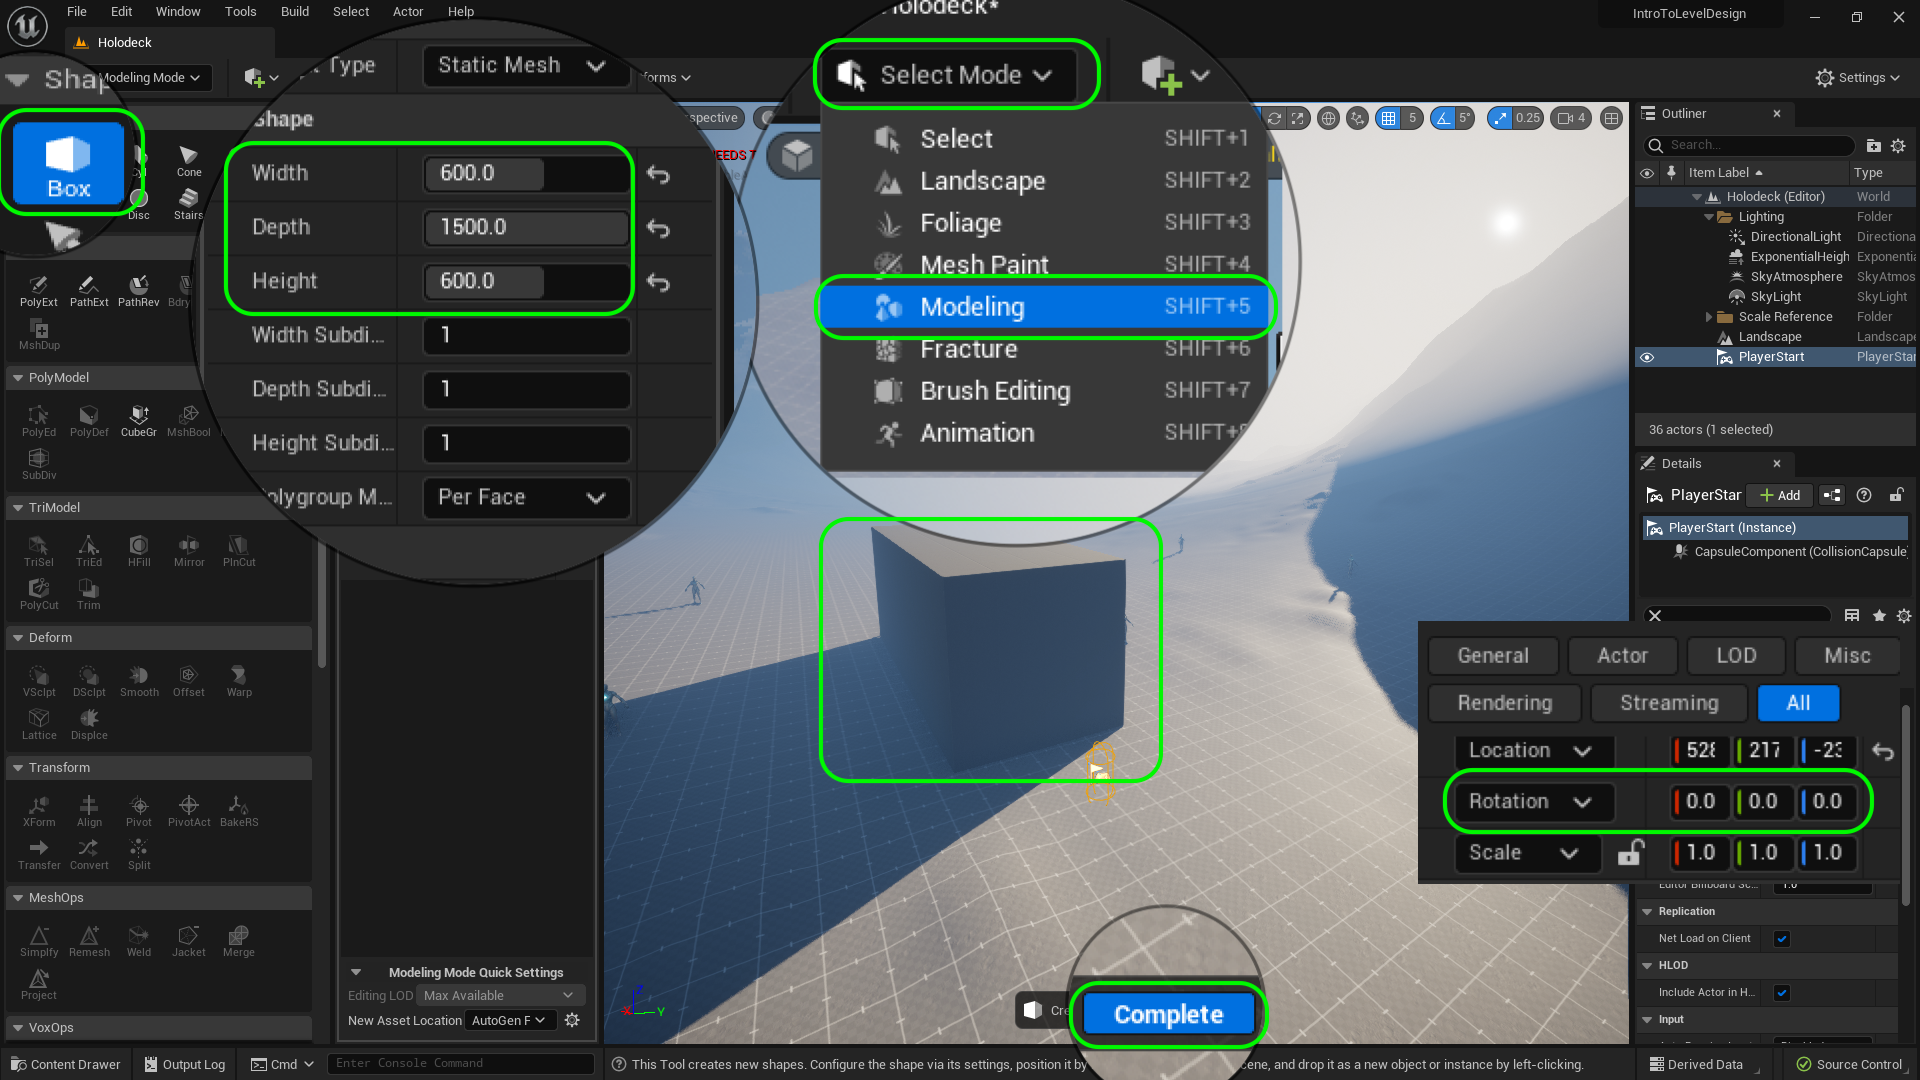
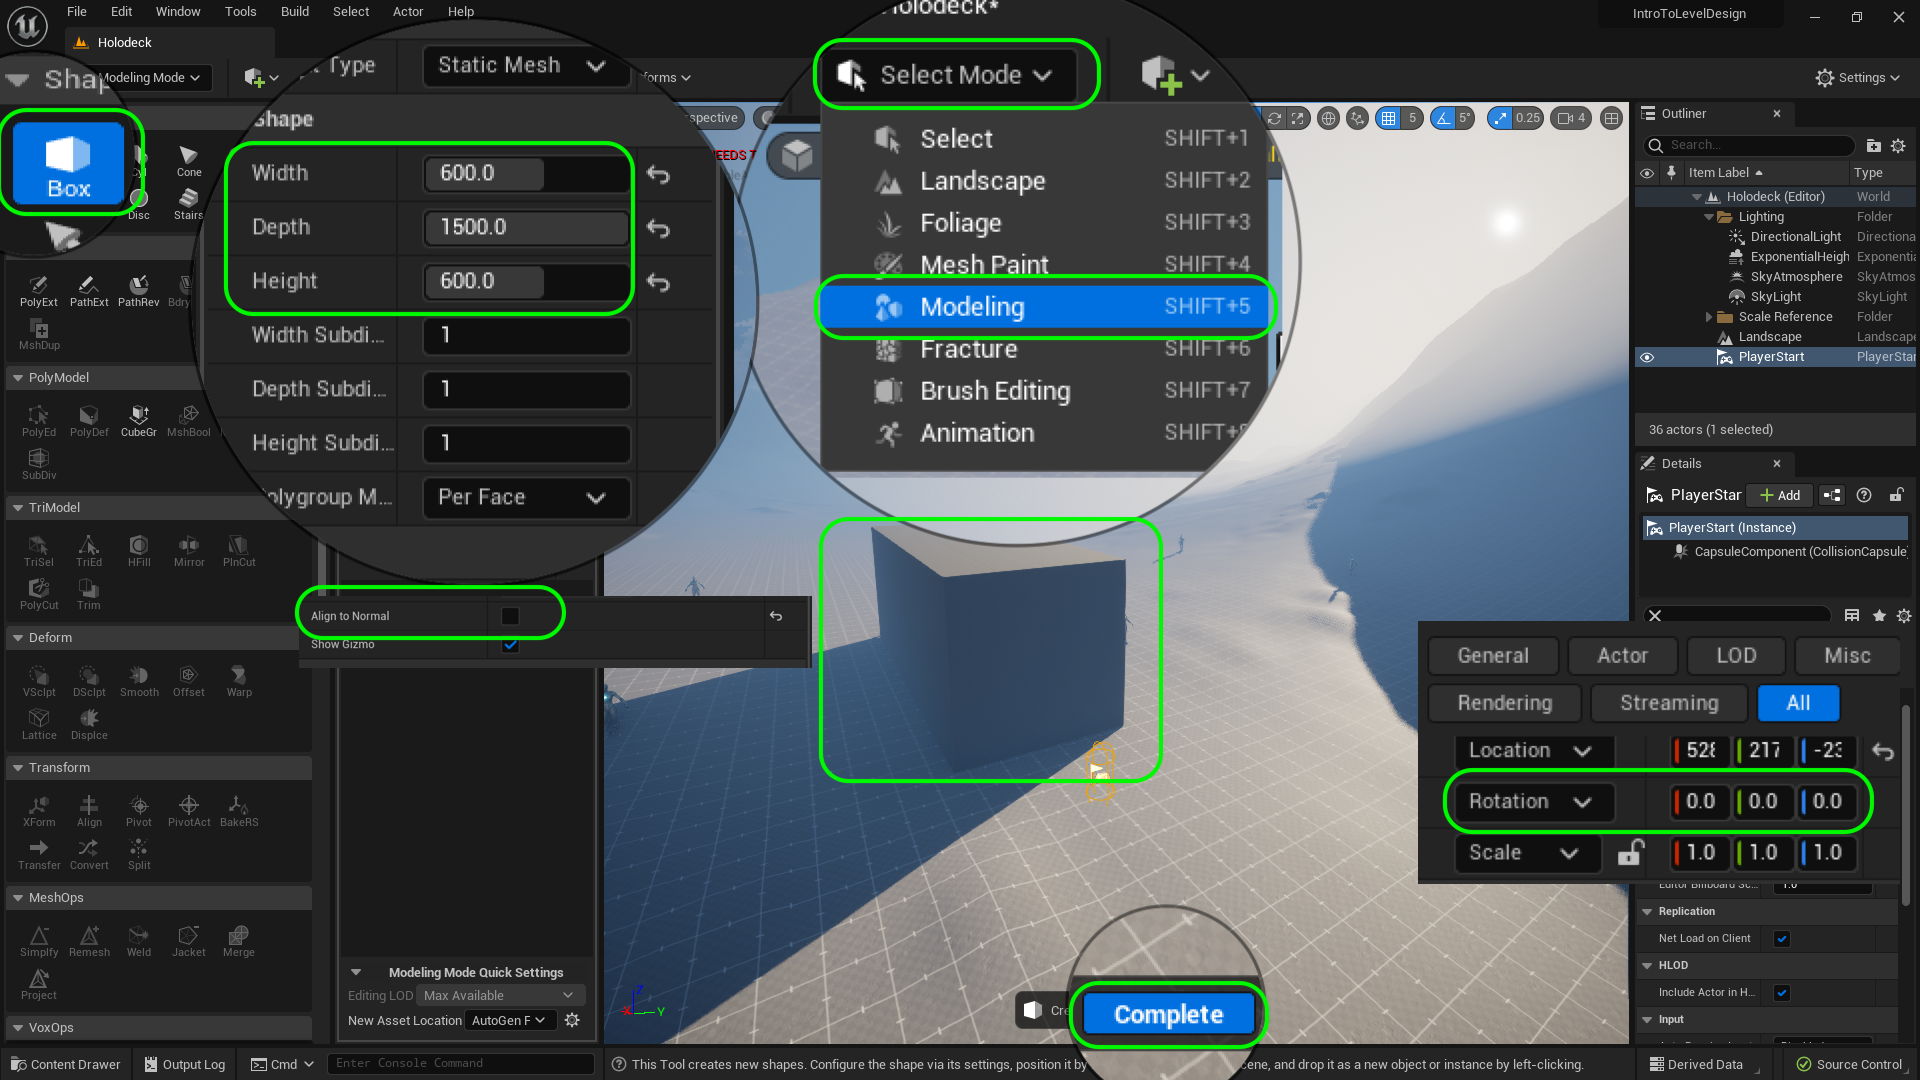
Update to Unreal 5.2

Changed region(s): [[0.2812, 0.55, 0.4375, 0.6417], [0.1562, 0.5194, 0.2812, 0.6111]]

diff --git a/ramp/README.md b/ramp/README.md
@@ -76,9 +76,9 @@ Now we want the geometry that we create to sit in a scratch folder.  I like to s
 
 ##### `Step 8.`\|`SUU&G`| :small_orange_diamond: :small_blue_diamond: :small_blue_diamond: :small_blue_diamond:
 
-Now lets add a ramp for the player to run on.  We will do this but editing a basic shape using the **UE5** modeling tools.  Press **Select Mode** and `Modeling`. Now press the **Shape | Box** section on the left.  Make the box `600` cm in **Width** and **Height** (6 meters or 19.6 feet) and `1500` cm (15 meters or 49.2 feet) in **Depth**. Left click the new box to the level and press the <kbd>Complete</kbd> button. 
+Now lets add a ramp for the player to run on.  We will do this but editing a basic shape using the **UE5** modeling tools.  Press **Select Mode** and `Modeling`. Now press the **Shape | Box** section on the left.  Make the box `600` cm in **Width** and **Height** (6 meters or 19.6 feet) and `1500` cm (15 meters or 49.2 feet) in **Depth**. Turn **Align to Normal** `off`. Left click the new box to the level and press the <kbd>Complete</kbd> button. 
 
-Now the game tries to place the object to the best of its abilities and often rotates it.  It is **VERY IMPORTANT** to reset the **Rotation** so that is it `0`, `0`, `0` on **X**, **Y** and **Z**.
+Double check and make sure the **Rotation** is set to `0`, `0`, `0` on **X**, **Y** and **Z**.
 
 ![add box that is 600 units wide and heigh by 1500 units deep](images/addRamp.png)
 
